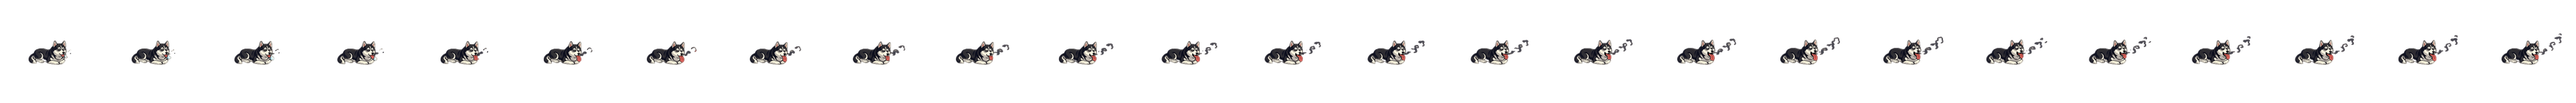
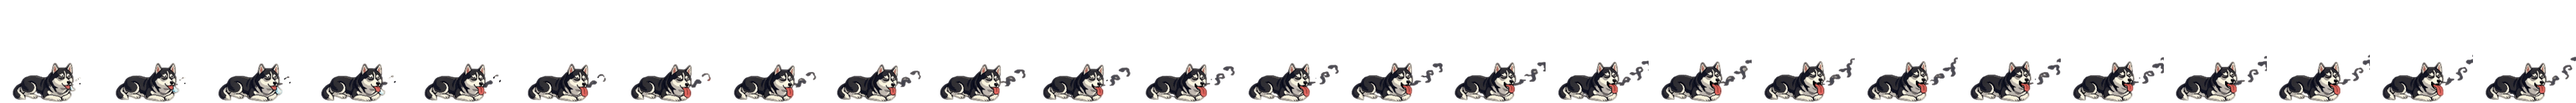
v1.0.7: Fortune Cat (招財貓) + Sleep button + husky polish
New pet:
- Fortune Cat (招財貓 / maneki-neko) added to the Choose pet submenu
  next to cat / shiba / husky. Six sprite strips derived from the
  artist's 1280x1280 grid sources: fortune_walk, fortune_sleep,
  fortune_eat, fortune_lift (15 frames — keeps only the actual
  scruff/dangle portion of the artist's longer sequence),
  fortune_wave (new state), and fortune_idle (490x490 square crop
  matching the other pets' display scale). Originals kept alongside
  as fortune_*_sheet.png artist sources.
- Walk drift fixed: artist drew the cat physically traversing the
  grid (body x-center increments 39 px row-major). Auto-derivation
  uses a per-cell crop offset that follows the body so the cat stays
  stationary inside its strip cell — the actual walking motion comes
  from petX alone, no more backwards-snapping on cycle wrap.
- Wave anim plays in two situations:
   - Random idle wave every 60..90 s while the fortune cat is
     wandering — cat pauses, plays 4..6 full cycles (~5.6..8.4 s),
     resumes idle. Only fires when mode==='idle', so it can't
     interrupt a step.
   - Greeting wave on food drop — one full cycle (~1.4 s) before
     the cat walks to the bowl.
  wake() cancels in-progress waves so click/drag always take
  priority; clicking the cat doesn't trigger a wave.

Sleep button:
- New "Sleep 💤" item in the tray and right-click menu, mirroring
  the existing food button pattern. Tapping it forces the pet into
[…]

Changed region(s): [[0.0, 0.3714, 1.0, 1.0]]

diff --git a/main.js b/main.js
@@ -17,8 +17,8 @@ const MOUTH = 184;          // x of the pet's mouth within the artwork (facing r
 const NECK_Y = 60;          // y of the pet's neck/scruff within the window (for carrying)
 
 // ---- pet state ----
-let currentPet = 'cat';     // 'cat' | 'shiba' | 'husky'
-let mode = 'idle';          // 'idle' | 'walk' | 'sleep' | 'eat'
+let currentPet = 'cat';     // 'cat' | 'shiba' | 'husky' | 'fortune'
+let mode = 'idle';          // 'idle' | 'walk' | 'sleep' | 'eat' | 'wave'
 let facing = 'right';       // 'left' | 'right'
 let petX = 0, petY = 0;
 let targetX = null;
@@ -31,6 +31,27 @@ let lastSent = '';
 let foodActive = false;
 let plateX = 0, plateY = 0;
 let eatStart = 0;
+
+// ---- forced sleep (Sleep 💤 menu item) ----
+// When true, the pet stays asleep regardless of the idle timer until the user
+// pokes, drags, drops food, or otherwise interacts with it.
+let forcedSleep = false;
+
+// ---- fortune cat wave ----
+// The maneki-neko has an extra `wave` state on top of the other pets'
+// repertoire. It fires randomly while wandering and once as a greeting when
+// food is dropped. waveEnd is the ms timestamp the wave runs until; 0 = no
+// wave in progress. nextWaveAt is the next randomized auto-trigger time.
+const WAVE_CYCLE_MS = 1400;            // matches fortune_wave anim dur
+const WAVE_IDLE_MIN_MS = 60 * 1000;    // earliest auto-wave after last one
+const WAVE_IDLE_MAX_MS = 90 * 1000;    // latest auto-wave
+const WAVE_CYCLES_MIN = 4;
+const WAVE_CYCLES_MAX = 6;
+let waveEnd = 0;
+let nextWaveAt = 0;
+function scheduleNextWave(now) {
+  nextWaveAt = now + WAVE_IDLE_MIN_MS + Math.random() * (WAVE_IDLE_MAX_MS - WAVE_IDLE_MIN_MS);
+}
 
 function workArea() { return screen.getPrimaryDisplay().workArea; }
 
@@ -78,12 +99,39 @@ function applyPosition() {
 
 function wake() {
   lastActivity = Date.now();
+  forcedSleep = false;
   if (mode === 'sleep') { mode = 'idle'; nextDecision = Date.now() + 700; }
+  if (mode === 'wave') { mode = 'idle'; waveEnd = 0; }
+}
+
+function forceSleep() {
+  if (foodActive) removeFood();
+  targetX = null;
+  forcedSleep = true;
+  mode = 'sleep';
+  sendState();
 }
 
 function tick() {
   if (!win || win.isDestroyed() || dragging) return;
+  // Forced sleep freezes the pet in the sleep pose until the user wakes it.
+  if (forcedSleep) { sendState(); return; }
   const now = Date.now();
+
+  // ----- fortune cat: wave overrides everything else while it's playing -----
+  if (mode === 'wave') {
+    if (now >= waveEnd) {
+      waveEnd = 0;
+      mode = 'idle';
+      nextDecision = now + 500;
+      lastActivity = now;
+      scheduleNextWave(now);
+    } else {
+      facing = 'right';
+      sendState();
+      return;
+    }
+  }
 
   // ----- feeding overrides normal behavior -----
   if (foodActive) {
@@ -120,6 +168,18 @@ function tick() {
       applyPosition();
     }
   } else if (mode === 'idle') {
+    // Fortune cat: occasionally pause to wave, the iconic maneki-neko gesture.
+    if (currentPet === 'fortune' && nextWaveAt && now >= nextWaveAt) {
+      const cycles = WAVE_CYCLES_MIN + Math.floor(Math.random() * (WAVE_CYCLES_MAX - WAVE_CYCLES_MIN + 1));
+      waveEnd = now + cycles * WAVE_CYCLE_MS;
+      nextWaveAt = 0;
+      mode = 'wave';
+      facing = 'right';
+      targetX = null;
+      lastActivity = now;
+      sendState();
+      return;
+    }
     if (now >= nextDecision) {
       if (Math.random() < 0.6) {
         targetX = clampX(workArea().x + Math.random() * (workArea().width - WIN_W));
@@ -168,8 +228,15 @@ function dropFood() {
   foodWin.webContents.once('did-finish-load', placeFood);
   foodWin.on('closed', () => { foodWin = null; foodActive = false; });
   foodActive = true;
-  mode = 'walk';
   wake();
+  // Fortune cat greets food with one full wave cycle before walking to the bowl.
+  if (currentPet === 'fortune') {
+    waveEnd = Date.now() + WAVE_CYCLE_MS;
+    mode = 'wave';
+    facing = 'right';
+  } else {
+    mode = 'walk';
+  }
   if (tray) tray.setContextMenu(buildMenu());
 }
 
@@ -193,12 +260,14 @@ function buildMenu() {
         { label: '🐱  Cat (black & white)', type: 'radio', checked: currentPet === 'cat', click: () => setPet('cat') },
         { label: '🐕  Shiba', type: 'radio', checked: currentPet === 'shiba', click: () => setPet('shiba') },
         { label: '🐺  Husky', type: 'radio', checked: currentPet === 'husky', click: () => setPet('husky') },
+        { label: '🐱  Fortune Cat (招財貓)', type: 'radio', checked: currentPet === 'fortune', click: () => setPet('fortune') },
       ],
     },
     { type: 'separator' },
     foodActive
       ? { label: 'Remove food', click: () => removeFood() }
       : { label: 'Drop food 🍖', click: () => dropFood() },
+    { label: 'Sleep 💤', click: () => forceSleep() },
     { label: 'Bring to center', click: () => centerPet() },
     { type: 'separator' },
     { label: 'Quit', role: 'quit' },
@@ -208,6 +277,11 @@ function buildMenu() {
 function setPet(pet) {
   currentPet = pet;
   lastSent = '';
+  // Stop any in-progress wave when leaving the fortune cat, and arm the
+  // auto-wave timer when entering it.
+  waveEnd = 0;
+  if (pet === 'fortune') scheduleNextWave(Date.now());
+  else nextWaveAt = 0;
   sendState();
   if (tray) tray.setContextMenu(buildMenu());
   wake();

diff --git a/index.html b/index.html
@@ -229,6 +229,14 @@ const SHEETS = {
     lift:  { file: 'images/husky_lift.png',  frames: 10, dur: 0.55 },
     idle:  { file: 'images/husky_idle.png',  frames: 1,  dur: 3.0 },
   },
+  fortune: {
+    walk:  { file: 'images/fortune_walk.png',  frames: 25, dur: 1.4 },
+    sleep: { file: 'images/fortune_sleep.png', frames: 25, dur: 3.4 },
+    eat:   { file: 'images/fortune_eat.png',   frames: 25, dur: 2.2 },
+    lift:  { file: 'images/fortune_lift.png',  frames: 15, dur: 0.85 },
+    wave:  { file: 'images/fortune_wave.png',  frames: 25, dur: 1.4 },
+    idle:  { file: 'images/fortune_idle.png',  frames: 1,  dur: 3.0 },
+  },
 };
 
 let currentMode = 'idle';
@@ -253,6 +261,7 @@ function applyAnim(){
   else if(currentMode === 'sleep' && cfg.sleep && cfg.sleep._ok) { a = cfg.sleep; play = 'loop'; }
   else if(currentMode === 'walk' && cfg.walk && cfg.walk._ok)    { a = cfg.walk;  play = 'loop'; }
   else if(currentMode === 'eat'  && cfg.eat  && cfg.eat._ok)     { a = cfg.eat;   play = 'loop'; }
+  else if(currentMode === 'wave' && cfg.wave && cfg.wave._ok)    { a = cfg.wave;  play = 'loop'; }
   else if(cfg.idle && cfg.idle._ok)                             { a = cfg.idle;  play = (cfg.idle.frames > 1) ? 'loop' : 'none'; }
   else { a = (cfg.walk && cfg.walk._ok) ? cfg.walk : cfg.sleep; play = 'none'; }
   if(!a) return;
@@ -284,7 +293,7 @@ function render(pet){
   probe.onerror = () => trySingle(pet);
   probe.src = base.file;
 }
-function setMode(mode){ currentMode=mode; stage.classList.remove('state-idle','state-walk','state-sleep','state-eat'); stage.classList.add('state-'+mode); applyAnim(); }
+function setMode(mode){ currentMode=mode; stage.classList.remove('state-idle','state-walk','state-sleep','state-eat','state-wave'); stage.classList.add('state-'+mode); applyAnim(); }
 function setFacing(f){ stage.classList.remove('facing-left','facing-right'); stage.classList.add('facing-'+f); }
 
 ipcRenderer.on('state', (_e,{mode,facing,pet}) => { render(pet); setMode(mode); setFacing(facing); });
